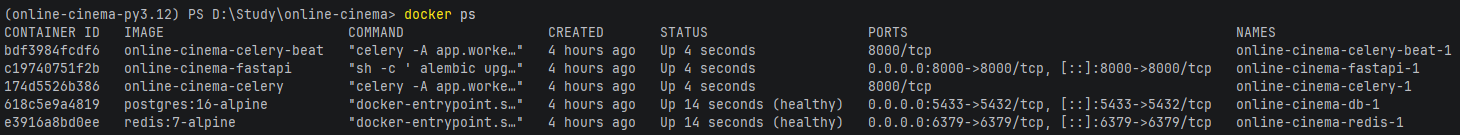
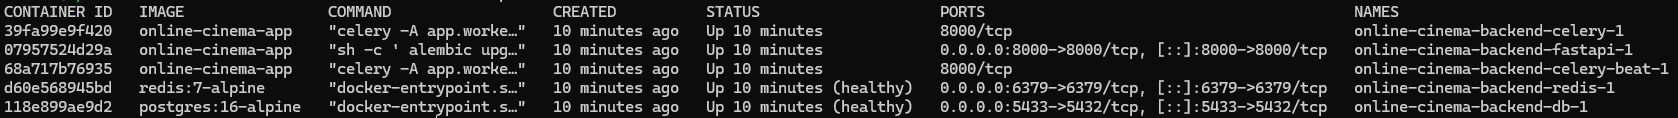
update CI/CD badges and add Docker CI/CD screenshot

diff --git a/README.md b/README.md
@@ -3,6 +3,7 @@
 ![Tests](https://img.shields.io/badge/tests-108-success)
 ![Coverage](https://img.shields.io/badge/coverage-90%25-success)
 ![Docker](https://img.shields.io/badge/docker-enabled-blue)
+![CI](https://github.com/sind14/online-cinema-backend/actions/workflows/ci-cd.yml/badge.svg)
 
 # Online Cinema API
 
@@ -13,11 +14,13 @@ A backend API for an online cinema platform built with FastAPI. It supports user
 | Service | URL |
 |---|---|
 | API Base URL | http://3.79.209.106:8000 |
-| Swagger Documentation | http://3.79.209.106:8000/docs |
+| Swagger Documentation | [Swagger Docs](http://3.79.209.106:8000/docs) |
 
-## Test Credentials
+## Demo Access
 
-Admin account:
+The API includes a pre-seeded admin account for testing protected endpoints via Swagger UI.
+
+Admin credentials:
 - Email: cinemaonlineproject@gmail.com
 - Password: Password-123
 
@@ -216,20 +219,23 @@ erDiagram
 
 ## Screenshots
 
-### Swagger API Documentation
+### Swagger API Interface
 ![Swagger](screenshots/swagger.png)
 
-### JWT Authentication
+### JWT Authentication Flow
 ![Login](screenshots/login.png)
 
 ### Protected Admin Endpoint
 ![Admin](screenshots/post-genres.png)
 
-### AWS EC2 Deployment
+### AWS EC2 Infrastructure
 ![AWS](screenshots/aws-ec2.png)
 
-### Docker Containers
+### Dockerized Services on AWS EC2
 ![Docker](screenshots/docker-containers.png)
+
+### GitHub Actions CI/CD Pipeline
+![CI](screenshots/ci-deploy.png)
 
 ## Architecture
 
@@ -340,6 +346,7 @@ The project includes a GitHub Actions CI/CD pipeline that:
 - deploys the application to a remote Ubuntu server over SSH.
 
 Deployment is fully Dockerized using Docker Compose.
+The application is deployed on AWS EC2 using GitHub Actions CI/CD.
 
 ## Tests
 
